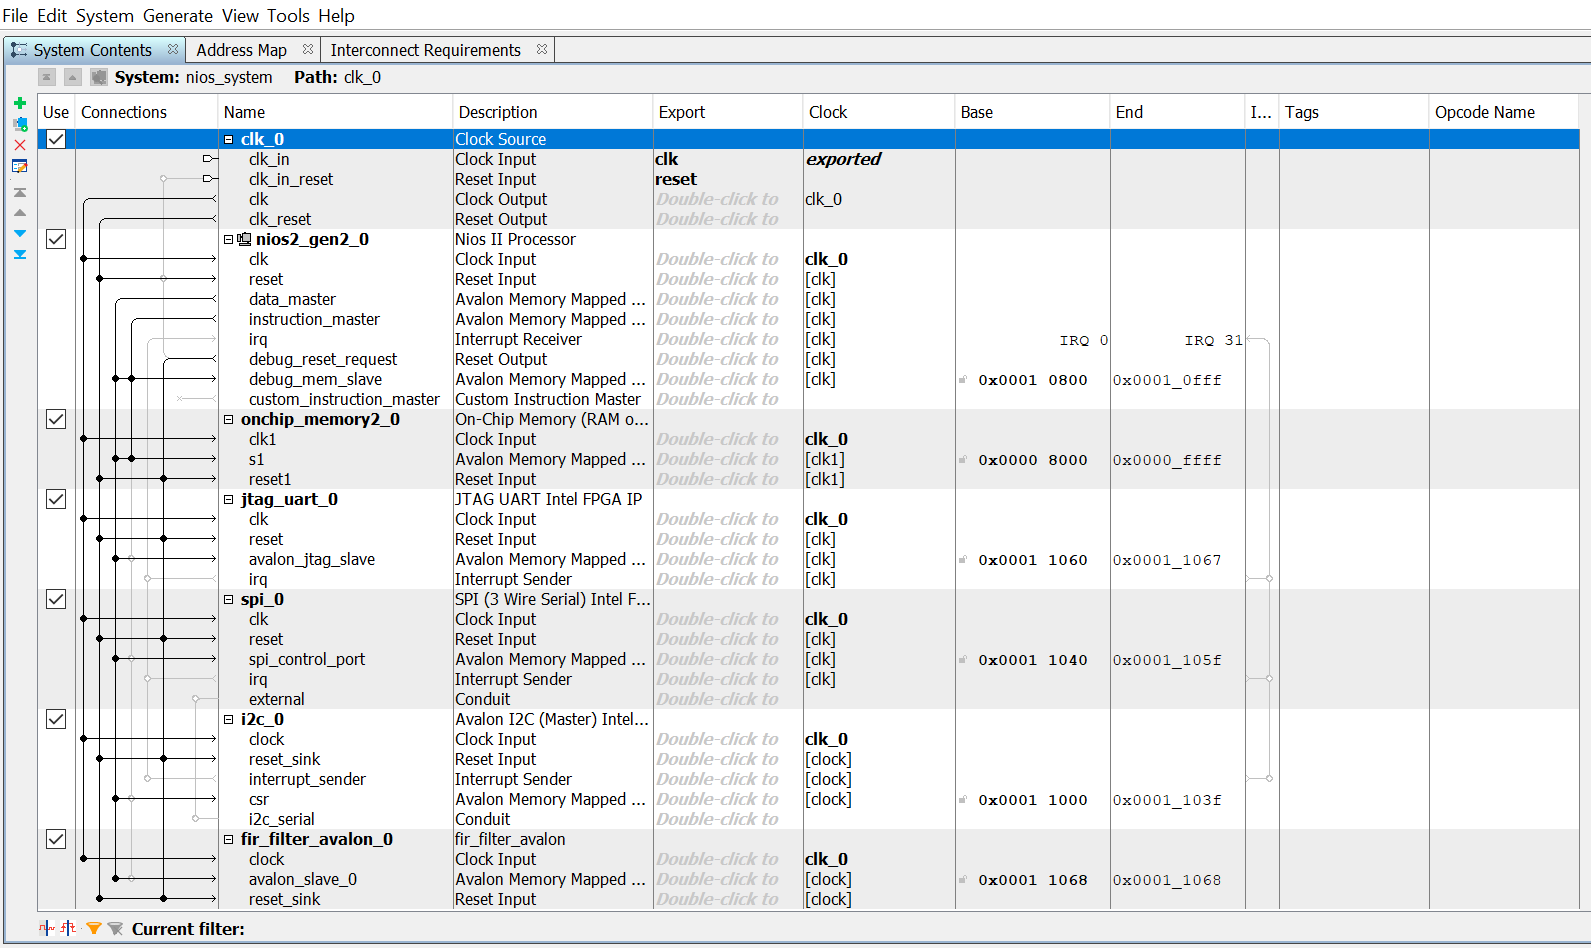
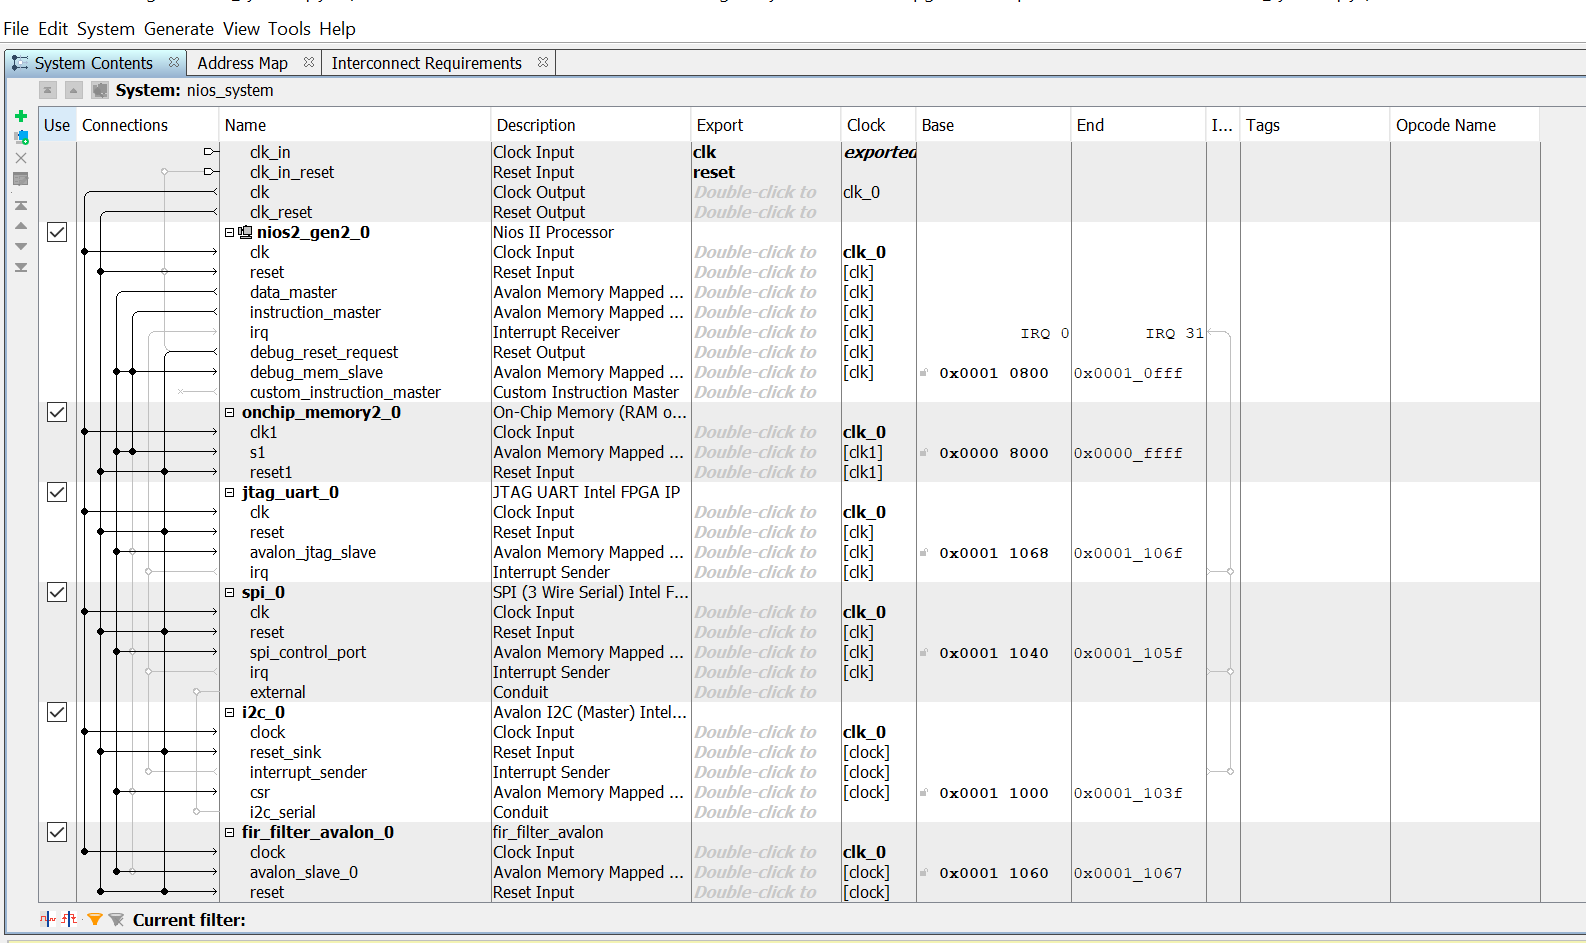
hw: achieve successful quartus prime compilation and timing closure

diff --git a/README.md b/README.md
@@ -89,6 +89,9 @@ The hardware outer block directly routes the physical FPGA board resources down 
 *   **`MAX10_CLK1_50` Pin** ➔ Routes the native physical crystal oscillator tracking speed straight into the global `clk_clk` line.
 *   **`KEY(0)` Push-Button** ➔ Extends a physical active-low manual clear line directly into the system `reset_reset_n` core.
 
+The Compilation was successful and it generated physical hardware programming bitstream file (de10_top.sof)
+![Quartus Prime Compilation and timing closure](hardware/qp_compilation.png)
+
 ---
 
 ## Upcoming Final Implementation Phases